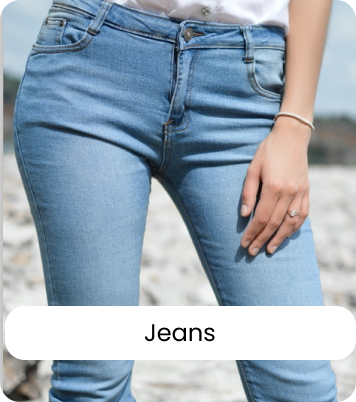
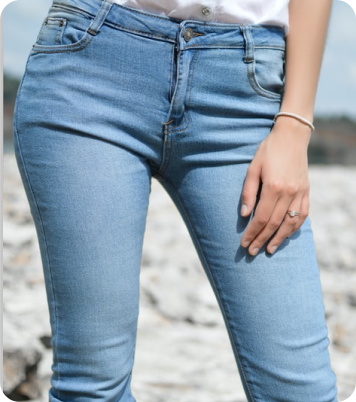
React First Project

Changed region(s): [[0.0, 0.7463, 1.0, 0.8955]]

diff --git a/src/components/layouts/End.jsx b/src/components/layouts/End.jsx
@@ -1,0 +1,49 @@
+import Container from '../Container'
+import Flex from '../Flex'
+import Headings from '../Heading'
+import Para from '../Para'
+import Headingbtn from '../Headingbtn'
+import Image from '../Image'
+import End1 from '../../assets/End1.png'
+import End2 from '../../assets/End2.png'
+import Stars from '../../assets/Stars.png'
+
+const End = () => {
+  return (
+    <div className=' bg-endingBg pt-9 pb-48' >
+        <Container>
+            <Flex>
+                <div className="pt-9 w-[457px] ml-24">
+                    <Headings className='font-frank text-7xl text-white font-bold' headingText='Best Seller Product'/>
+                    <Para className='font-frank text-2xl text-white mt-11 font-bold' paraText='Lorem ipsum dolor sit amet, consectetur adipiscing elit. Ac neque, velit tortor quam at donec etiam bibendum sagittis. Libero tempor, lacus amet, scelerisque neque mauris odio risus nec. Nisl, parturient at morbi morbi sit arcu. At integer maecenas tortor non lectus.'/>
+                    <Headingbtn className='font-semibold text-2xl text-white font-pop mt-10' buttonText='LEARN MORE' />
+                </div>
+                <div className="w-[366px] pt-9 ml-8">
+                  <Image src={End1} alt={End1} />
+                  <div className="w-[366px] bg-white pl-6 py-6">
+                  <Image className='' src={Stars} alt={Stars} />
+                  <Headings className='font-semibold text-[22px] text-black font-pop mt-3' headingText='Sweater Shirt' />
+                  <Flex>
+                  <Para className='text-dollerclr font-normal text-2xl font-pop pt-3' paraText='$45.99' />
+                  <Para className='text-black font-normal text-2xl font-pop pt-3 ml-8' paraText='$35.99' />
+                  </Flex>
+                  </div>
+                </div>
+                <div className="w-[366px] pt-9 ml-8">
+                <Image src={End2} alt={End2} />
+                <div className="w-[366px] bg-white pl-6 py-6">
+                  <Image className='' src={Stars} alt={Stars} />
+                  <Headings className='font-semibold text-[22px] text-black font-pop mt-3' headingText='Pants fashion' />
+                  <Flex>
+                  <Para className='text-dollerclr font-normal text-2xl font-pop pt-3' paraText='$55' />
+                  <Para className='text-black font-normal text-2xl font-pop pt-3 text-center ml-14' paraText='$44.99' />
+                  </Flex>
+                  </div>
+                </div>
+            </Flex>
+        </Container>
+    </div>
+  )
+}
+
+export default End

diff --git a/src/components/layouts/Fashion.jsx b/src/components/layouts/Fashion.jsx
@@ -17,14 +17,14 @@ const Fashion = () => {
                         <Headings className='font-frank text-7xl font-bold' headingsText='Best Fashion Since 2010' />
                         <Para className='pr-44 mt-16' paraText='Lorem ipsum dolor sit amet, consectetur adipiscing elit. Arcu, odio pellentesque mattis pulvinar felis. At arcu ornare rhoncus, elementum non viverra. ' />
                         <div >
-                           <Flex className='w-[795px] py-20 bg-headerBg rounded-2xl mt-16 ml-[-260px] z-0'>
+                           <Flex className='w-[795px] pt-20 pb-5 bg-headerBg rounded-2xl mt-40 ml-[-260px] z-0'>
                             <div className="w-[265px] text-center">
                                    <Headings className='font-pod text-6xl font-semibold ' headingsText='2010' />
-                                   <Para className='text-3xl mt-3 font-medium relative after:absolute after:h-36 after:w-1 after:bg-black after:rounded-3xl after:right-0 after:top-[-84px]' paraText='Founded' />
+                                   <Para className='text-3xl mt-3 font-medium relative after:absolute after:h-36 after:w-[2px] after:bg-black after:rounded-3xl after:right-0 after:top-[-84px]' paraText='Founded' />
                             </div>
                             <div className="w-[265px] text-center">
                                    <Headings className='font-pod text-6xl font-semibold ' headingsText='5000+' />
-                                   <Para className='text-3xl mt-3 font-medium relative after:absolute after:h-36 after:w-1 after:bg-black after:rounded-3xl after:right-0 after:top-[-84px]' paraText='Product Sold' />
+                                   <Para className='text-3xl mt-3 font-medium relative after:absolute after:h-36 after:w-[2px] after:bg-black after:rounded-3xl after:right-0 after:top-[-84px]' paraText='Product Sold' />
                             </div>
                             <div className="w-[265px] text-center">
                                    <Headings className='font-pod text-6xl font-semibold ' headingsText='4500+' />

diff --git a/src/components/layouts/Collection.jsx b/src/components/layouts/Collection.jsx
@@ -3,9 +3,11 @@ import Headings from '../Headings'
 import Container from '../Container'
 import Flex from '../Flex'
 import Image from '../Image'
+import Fashionbtn from '../Fashionbtn'
 import Sweats from '../../assets/Sweats.png'
 import Sweats2 from '../../assets/Sweats2.png'
 import Sweats3 from '../../assets/Sweats3.png'
+
 
 const Collection = () => {
   return (
@@ -13,14 +15,17 @@ const Collection = () => {
         <Container>
             <Headings className='text-center mb-24 font-frank text-7xl font-bold' headingsText='New Collection'/>
             <Flex className='flex justify-between'>
-                <div className="w-[426px] mr-20">
-                    <Image src={Sweats} alt={Sweats}/>
+                <div className="w-[426px] mr-20 ">
+                <Fashionbtn className='absolute z-10 ' buttonText='Sweater'/>
+                    <Image className='relative' src={Sweats} alt={Sweats}/>
                 </div>
                 <div className="w-[426px] mr-20">
-                <Image src={Sweats2} alt={Sweats2}/>
+                <Fashionbtn className='absolute z-10  px-32' buttonText='Jeans'/>
+                <Image className='relative' src={Sweats2} alt={Sweats2}/>
                 </div>
                 <div className="w-[426px]">
-                <Image src={Sweats3} alt={Sweats3}/>
+                <Fashionbtn className='absolute z-10  ml-5  px-32' buttonText='Baskets'/>
+                <Image className='relative' src={Sweats3} alt={Sweats3}/>
                 </div>
             </Flex>
         </Container>

diff --git a/src/components/Headingbtn.jsx b/src/components/Headingbtn.jsx
@@ -2,7 +2,7 @@ import React from 'react'
 
 const Headingbtn = ({buttonText,className}) => {
   return (
-    <button className={`py-6 px-24 bg-black text-white text-2xl rounded-xl ${className}`}>{buttonText}</button>
+    <button className={`py-6 px-24 bg-black font-semibold hover:border text-white text-2xl rounded-xl hover:bg-white hover:drop-shadow-2xl hover:text-black ${className}`}>{buttonText}</button>
   )
 }
 

diff --git a/src/App.jsx b/src/App.jsx
@@ -2,6 +2,7 @@ import Banner from "./components/layouts/Banner"
 import Collection from "./components/layouts/Collection"
 import Header from "./components/layouts/Header"
 import Fashion from "./components/layouts/Fashion"
+import End from "./components/layouts/End"
 
 
 
@@ -19,6 +20,7 @@ function App() {
  <Banner/>
  <Collection/>
  <Fashion/>
+ <End/>
  
   </>
  

diff --git a/src/components/Fashionbtn.jsx b/src/components/Fashionbtn.jsx
@@ -1,0 +1,9 @@
+import React from 'react'
+
+const Fashionbtn = ({buttonText,className}) => {
+  return (
+    <button className={`py-2 px-28 border-2  rounded-3xl font-pop font-semibold text-2xl bg-white hover:bg-black hover:drop-shadow-2xl hover:text-white mt-80 ml-3 ${className}`}>{buttonText}</button>
+  )
+}
+
+export default Fashionbtn

diff --git a/tailwind.config.js b/tailwind.config.js
@@ -11,7 +11,10 @@ export default {
       },
       colors: {
         'borderColor': '#FFD687',
-        'headerBg':"#FAE3B6"
+        'headerBg':"#FAE3B6",
+        'endingBg':"#CFA485",
+        'dollerclr':"#C4C4C4",
+        'Transparentclr':"rgba(0, 0, 0, 0.711)",
       },
       fontFamily:{
         'pop':"Poppins",
